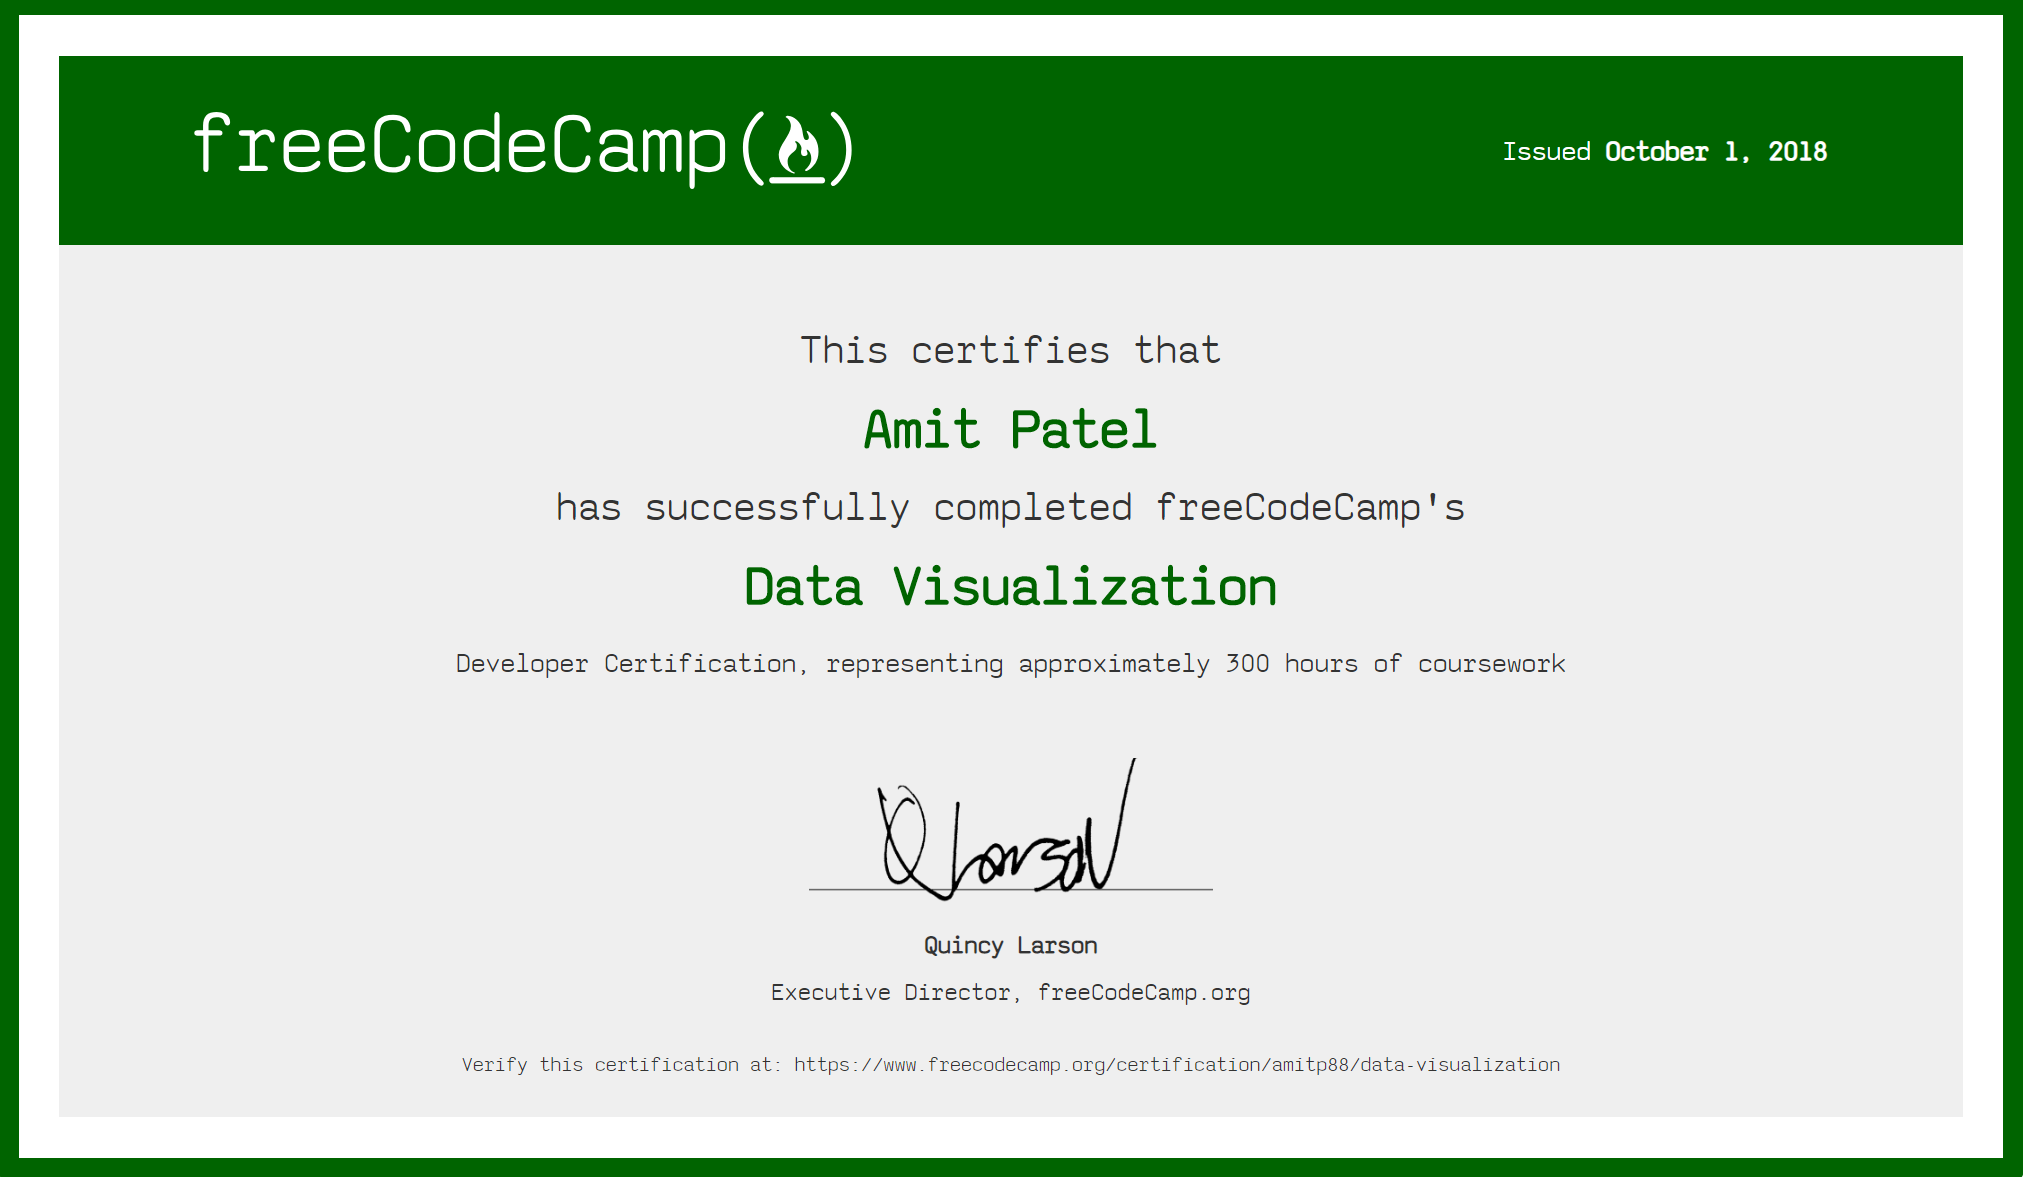
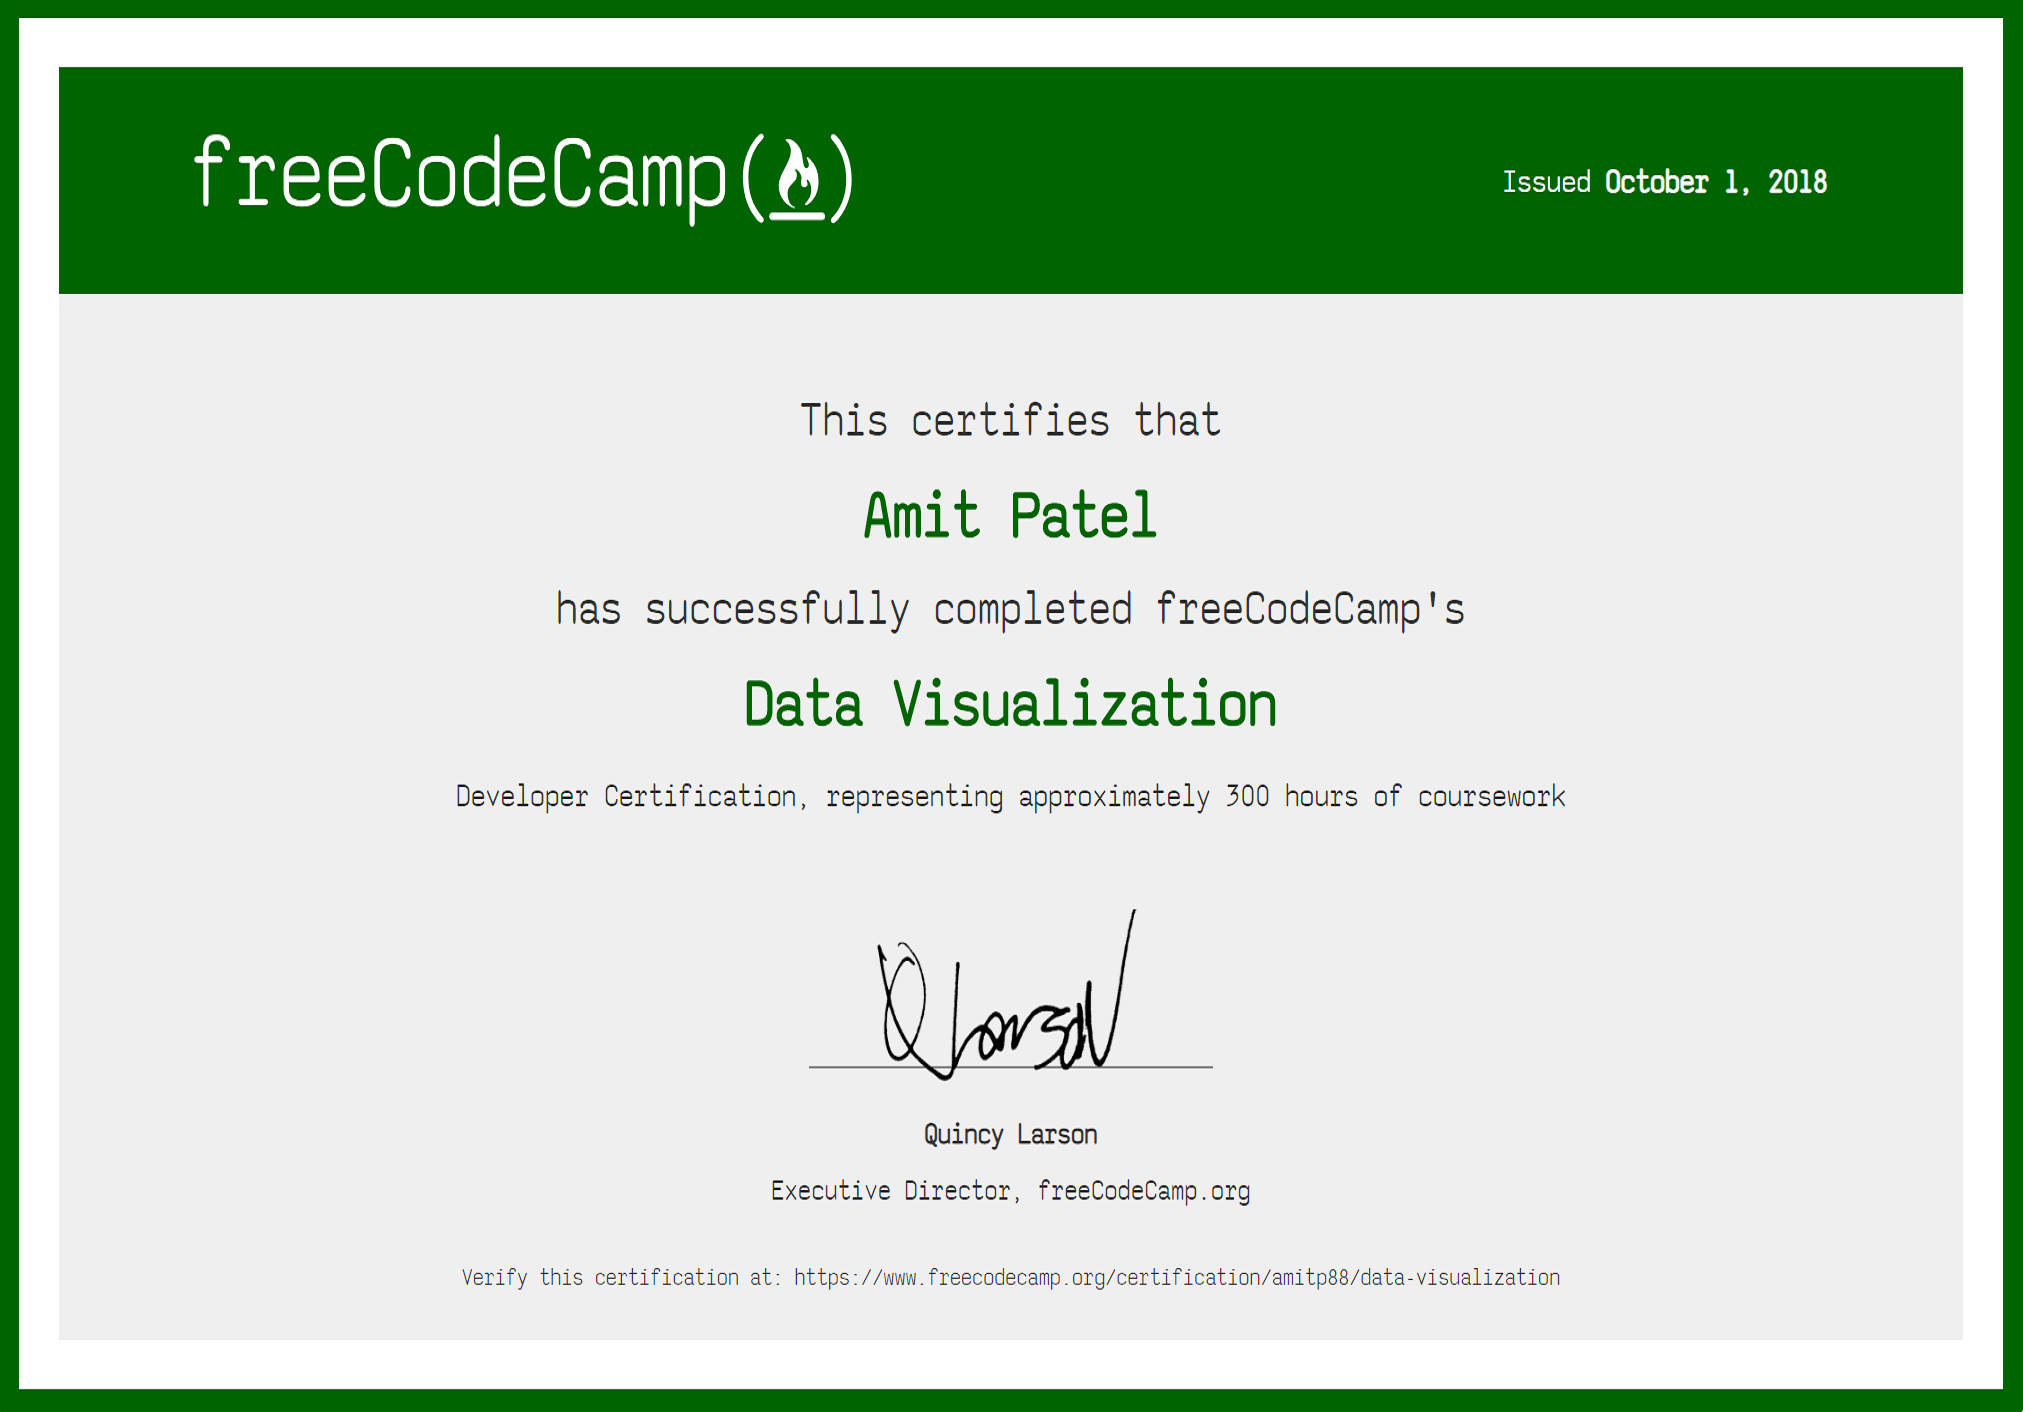
changed dimensions of each cert image and removed height css from .certImg for all media queries

Changed region(s): [[0.7474, 0.1223, 0.7785, 0.1529]]

diff --git a/src/media_queries.css b/src/media_queries.css
@@ -66,7 +66,7 @@
 
   .certImg {
     width: 90%;
-    height: 30vh;
+    height: auto;
     position: relative;
     top: 30%;
     padding: 5%;
@@ -134,9 +134,9 @@
     font-size: 4.5vw;
   }
 
-  .certImg {
+  /* .certImg {
     height: 35vh;
-  }
+  } */
 }
 
 @media only screen and (min-width: 425px) {
@@ -158,9 +158,9 @@
     padding: 15% 5% 5% 5%;
   }
 
-  .certImg {
+  /* .certImg {
     height: auto;
-  }
+  } */
 
   .About-Me {
     height: 60vh;
@@ -217,9 +217,9 @@
     height: 60vh;
   }
 
-  .certImg {
+  /* .certImg {
     height: 40vh;
-  }
+  } */
 
   .About-Me {
     height: 25vh;
@@ -309,9 +309,9 @@
     padding-bottom: 10%;
   }
 
-  .certImg {
+  /* .certImg {
     height: 45vh;
-  }
+  } */
 
   .About-Me {
     height: 26vh;
@@ -358,9 +358,9 @@
     font-size: 3vw;
   }
 
-  .certImg {
+  /* .certImg {
     height: 50vh;
-  }
+  } */
 
   .About-Me {
     height: 30vh;
